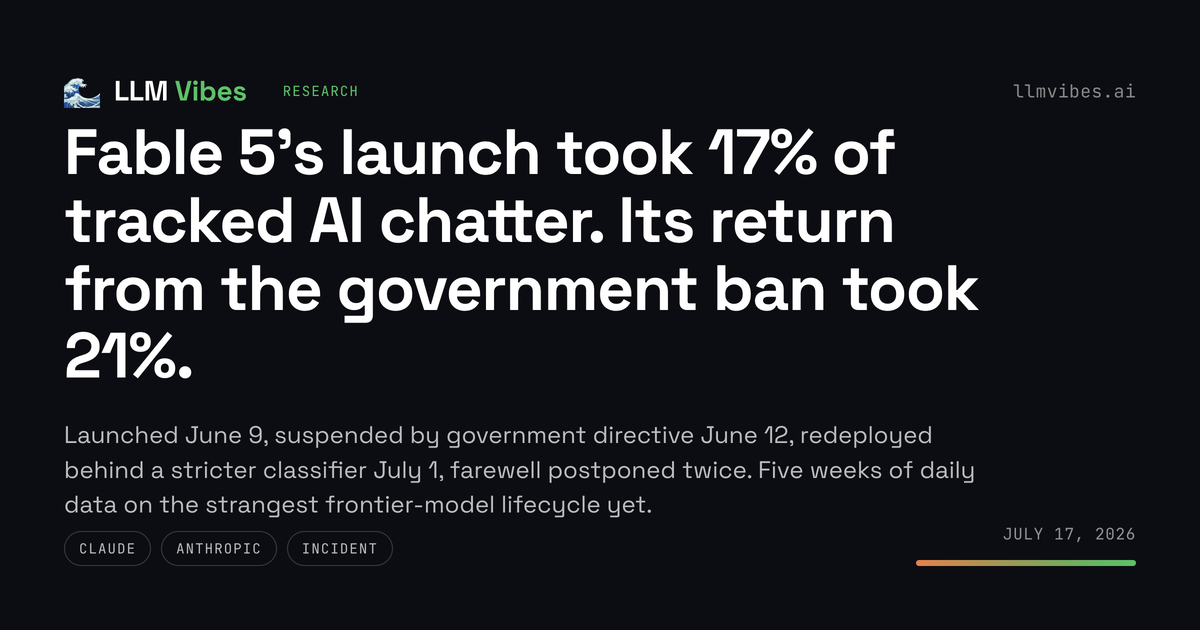
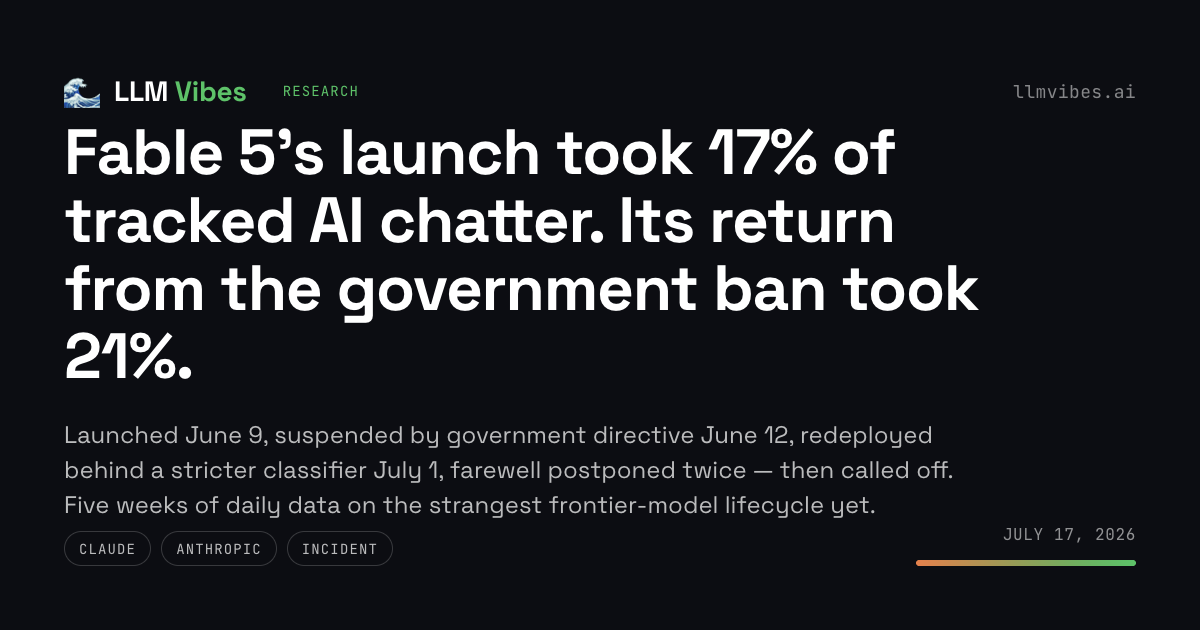
Update Fable 5 lifecycle article for July 20 permanent-plans announcement
Fable 5 is now permanently included in Max and Team Premium plans at 50%
of usage limits; Pro and Team Standard keep usage-credit access plus a
one-time $100 credit. Adds the vendor-event marker, a timeline row, an
update note replacing the stale July 19 deadline closer, and a
recaptured OG card with the revised dek.

diff --git a/src/data/research/fable-5-lifecycle-june-july-2026.tsx b/src/data/research/fable-5-lifecycle-june-july-2026.tsx
@@ -68,7 +68,8 @@ const FableLifecycleBody = () => (
       No frontier model has had a five-week run like Claude Fable 5's. Launched June 9. Ordered offline by a
       US government export-control directive on June 12. Restored July 1 behind a stricter safety
       classifier. Scheduled to leave paid plans, then given two stays of execution — first to July 12, then
-      July 19. Our scrapers classified posts about Claude every day of it, and the dataset reads like a
+      July 19 — and finally, on July 20, a pardon: permanent inclusion in Max and Team Premium plans. Our
+      scrapers classified posts about Claude every day of it, and the dataset reads like a
       stress test for the question every model provider should care about: what does a governance event do
       to how people talk about your product?
     </p>
@@ -145,6 +146,16 @@ const FableLifecycleBody = () => (
             <td className="whitespace-nowrap">Jul 7, Jul 12</td>
             <td>Paid-plan access extended to Jul 12, then Jul 19</td>
             <td>Peak mention share of the entire arc: 22.7% on Jul 7</td>
+          </tr>
+          <tr>
+            <td className="whitespace-nowrap">Jul 20</td>
+            <td>
+              <ExternalLink href="https://x.com/claudeai/status/2078302415804379218">
+                Fable 5 made permanent in Max and Team Premium plans
+              </ExternalLink>
+              , at 50% of usage limits
+            </td>
+            <td>After this article's Jul 16 data cutoff; the <a href="/model/claude">live chart</a> carries the marker</td>
           </tr>
         </tbody>
       </table>
@@ -386,9 +397,13 @@ const FableLifecycleBody = () => (
 
     <h2 id="what-you-can-do-next">What you can do next</h2>
     <p>
-      The <a href="/model/claude">live Claude chart</a> has the suspension band and both access deadlines
-      marked. July 19 is the date to watch: it's the first time the deadline arrives without an extension
-      announced, and the week after it answers whether the deadline economy converts to paid usage or churn.
+      <em>Update, July 21:</em> the deadline never arrived. On July 20 Anthropic{" "}
+      <ExternalLink href="https://x.com/claudeai/status/2078302415804379218">announced</ExternalLink> that
+      Fable 5 is permanently included in Max and Team Premium plans at 50% of usage limits, with Pro and
+      Team Standard keeping usage-credit access plus a one-time $100 credit. That settles the churn
+      question this article originally closed on. What's left to watch is whether the 16% mention share
+      holds once no countdown is feeding it — the <a href="/model/claude">live Claude chart</a> has the
+      suspension band and the July 20 announcement marked.
     </p>
     <p>
       Download the{" "}

diff --git a/src/data/research-posts.ts b/src/data/research-posts.ts
@@ -64,10 +64,11 @@ export const RESEARCH_POSTS: ResearchPost[] = [
     slug: "fable-5-lifecycle-june-july-2026",
     title: "Fable 5's launch took 17% of tracked AI chatter. Its return from the government ban took 21%.",
     publishedAt: "2026-07-17",
+    updatedAt: "2026-07-21",
     summary:
-      "Launched June 9, suspended by government directive June 12, redeployed behind a stricter classifier July 1, farewell postponed twice. Five weeks of daily data on the strangest frontier-model lifecycle yet.",
+      "Launched June 9, suspended by government directive June 12, redeployed behind a stricter classifier July 1, farewell postponed twice — then called off. Five weeks of daily data on the strangest frontier-model lifecycle yet.",
     metaDescription:
-      "Five weeks of daily sentiment data across Fable 5's launch, government suspension, classifier redeploy, and twice-extended farewell.",
+      "Five weeks of daily sentiment data across Fable 5's launch, government suspension, classifier redeploy, and the farewell that was finally called off.",
     author: "David Kelly",
     tags: ["claude", "anthropic", "incident", "case-study"],
     relatedModelSlug: "claude",

diff --git a/src/data/vendor-events.ts b/src/data/vendor-events.ts
@@ -143,6 +143,17 @@ export const VENDOR_EVENTS: VendorEvent[] = [
     notes: "Included-in-plans window extended to July 12 (announced July 7), then to July 19 (announced July 12).",
   },
   {
+    id: "anthropic-fable-5-permanent-plans",
+    vendor: "anthropic",
+    modelSlug: "claude",
+    eventDate: "2026-07-20",
+    eventType: "pricing_change",
+    title: "Fable 5 made permanent in Max and Team Premium plans",
+    url: "https://x.com/claudeai/status/2078302415804379218",
+    notes:
+      "Included at 50% of usage limits with no end date; Pro and Team Standard keep usage-credit access plus a one-time $100 credit.",
+  },
+  {
     id: "openai-gpt-5-6-launch",
     vendor: "openai",
     modelSlug: "chatgpt",
